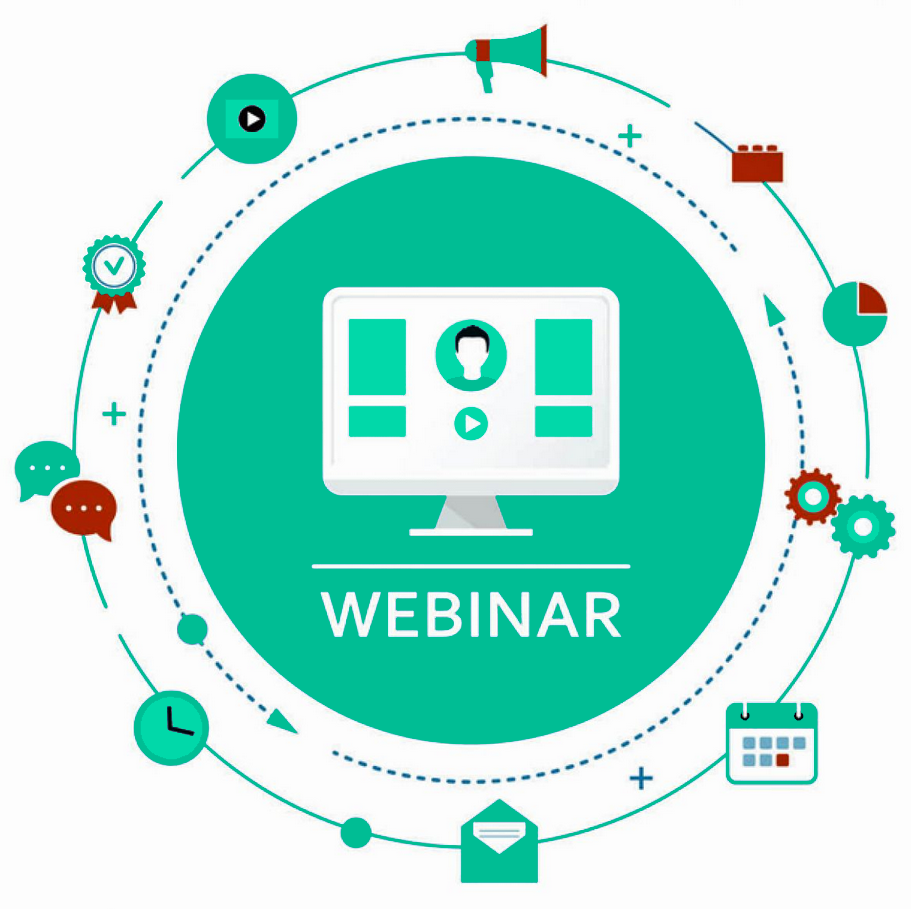
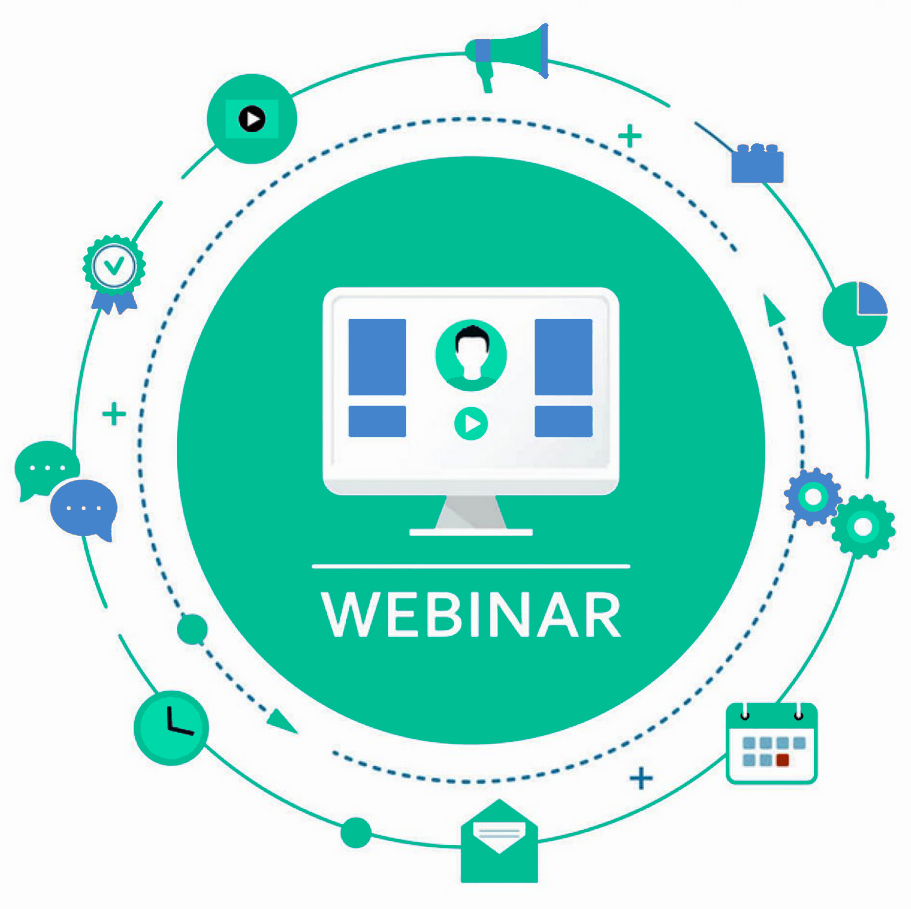
green

diff --git a/docs/index.rst b/docs/index.rst
@@ -126,7 +126,7 @@ EDIN | Електронний документообіг для бізнесу
         :link: https://wiki.edin.ua/uk/latest/Webinars/Videos.html
 
     .. grid-item-card::  Законодавство
-        :img-top: _static/card_pic/zakon.png
+        :img-top: _static/card_pic/zakon_g.png
         :class-card: intro-card
         :shadow: lg
         :link: https://wiki.edin.ua/uk/latest/Zakon/Zakonodavcha_baza.html
